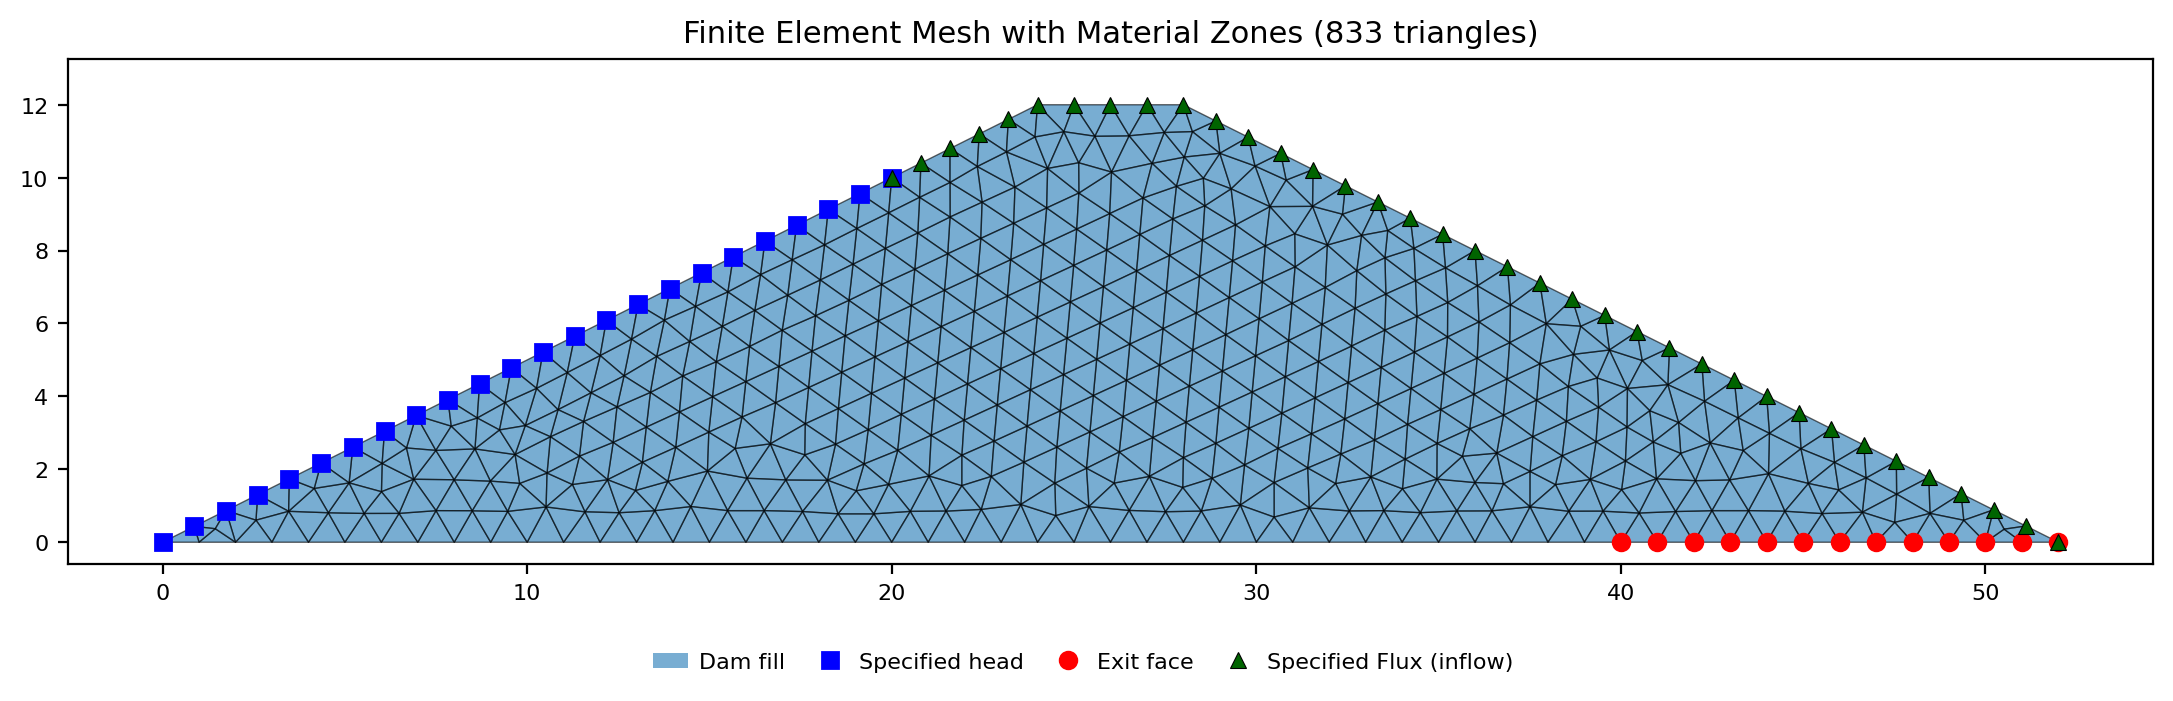
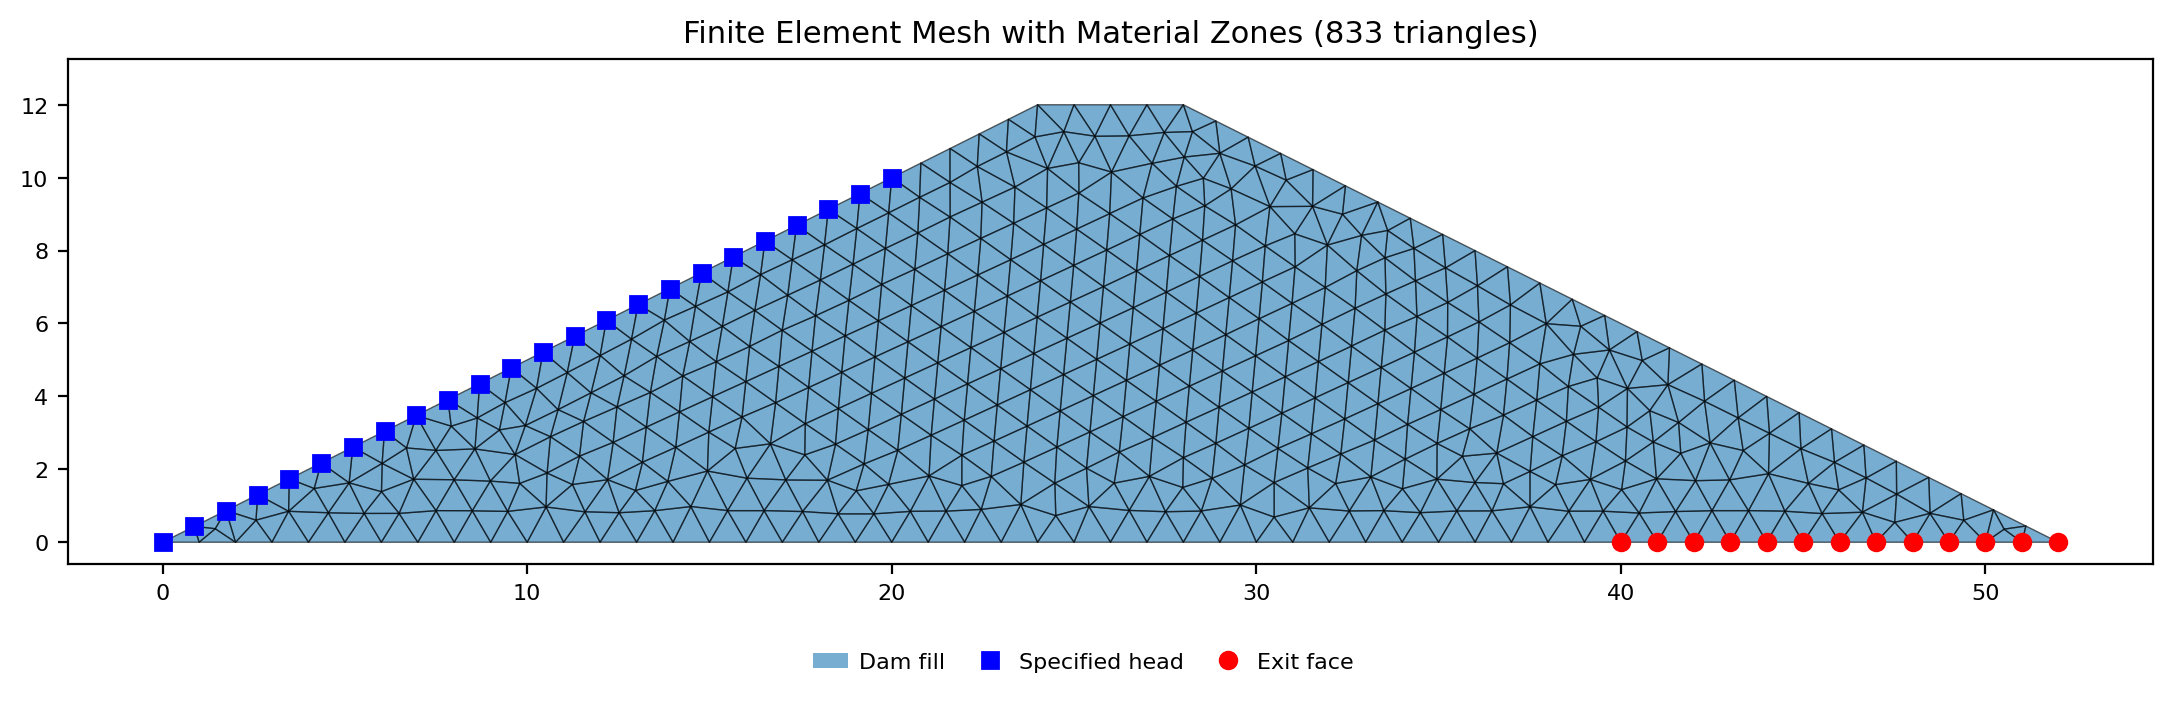
fix(seep04): the mesh figure shows the reader's own state
The figure was produced from the completed model, so rain markers the
reader had not built yet appeared and the prose explained them away.
It now draws from the dry configuration — head and exit face only,
same mesh — the green-triangle paragraph dies, and the no-rebuild fact
moves to one sentence where the rain is run.

Claude-Session: https://claude.ai/code/session_01XjjT2aBxw8gY7EFdpoUcpj

diff --git a/tools/make_tutorial_figures.py b/tools/make_tutorial_figures.py
@@ -3910,7 +3910,12 @@ def seep04_plots():
     capture("seep04_inputs.png", plot_inputs, sd, mode="seep",
             title="Seepage Model Inputs", frame="content", show_mesh=False)
     figsize = _seep02_figsize(mesh)
-    capture("seep04_mesh.png", plot_seep_data, wet_data, figsize=figsize,
+    # The mesh figure shows the reader's OWN state at that point in the build:
+    # head and exit face entered, no rain yet — so it is drawn from the dry
+    # model's seep_data (same mesh; the completed model's flux vertices are all
+    # already-pinned points), and no flux markers appear before the reader has
+    # built a flux boundary.
+    capture("seep04_mesh.png", plot_seep_data, dry_data, figsize=figsize,
             show_bc=True)
 
     # One color scale over BOTH solutions, so the two panels compare directly.

diff --git a/docs/tutorials/seep04_dam_infiltration.md b/docs/tutorials/seep04_dam_infiltration.md
@@ -212,14 +212,7 @@ The mesh comes out at **473 nodes and 833 triangles**:
 
 The blue squares up the submerged face are the specified-head nodes and the red
 circles along the base from x = 40 are the exit-face nodes — thirteen of them, the
-number the solver reports back when it runs. The green triangles over the whole
-exposed surface are the rain, which the next section adds; they are drawn here
-because this is the mesh both runs use. Adding the rain does not change it: the
-mesher pins a node at every vertex of every boundary polyline, and all four
-vertices of the three rain blocks — (20, 10), (24, 12), (28, 12) and (52, 0) —
-are already nodes, the first because the reservoir polyline ends there, the last
-because the exit face does, and the two crest corners because the section itself
-turns there.
+number the solver reports back when it runs.
 
 That figure is the check on the boundary conditions as much as on the mesh. A
 no-flow boundary is invisible in the input, so the only way to see where one
@@ -408,9 +401,11 @@ Save the model. The completed file calls it `xslope_dam_infiltration.xlsx`.
 
 ## Running it again
 
-Click **Run → Run Seep…** and **Run**, with the same two settings as before. The
-solver reaches the answer in the same handful of sweeps it took in dry weather,
-with the same 13 of 13 exit-face nodes draining at the end: the rain costs the
+Click **Run → Run Seep…** and **Run**, with the same two settings as before —
+there is no need to rebuild the mesh, because every vertex of the three rain
+blocks already sits on a pinned node of the one built earlier. The solver
+reaches the answer in the same handful of sweeps it took in dry weather, with
+the same 13 of 13 exit-face nodes draining at the end: the rain costs the
 solution nothing in effort.
 
 ![The dam under steady rain](images/seep04_wet.png){width=1000}
